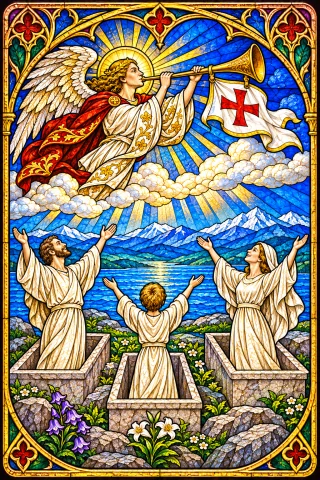
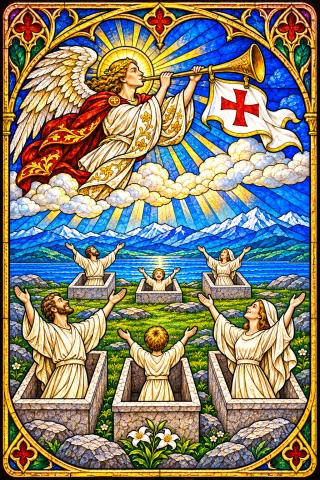
art: adopt consistent six-figure Judgement v3 with QA evidence

diff --git a/docs/audits/two-candidate-adoption-20261113.md b/docs/audits/two-candidate-adoption-20261113.md
@@ -27,3 +27,9 @@ Next edit should preserve the old border/text-free visual system, add a clearly 
 ### Subsequent Mac verification
 
 The exact QA commit was transferred through Library in a SHA-256 verified Git bundle into the clean isolated Mac checkout. `npm run check` passed again. Google Chrome then passed the existing full offline regression and a new targeted installed-image check at 320/390px: search by the app's canonical name `宝剑王牌`, open the card dialog, verify decoded image and `swords-1` current source, no page horizontal overflow. Actual 320/390 screenshots were viewed: complete card border and six separate gold marks remain visible. Initial test used the informal `宝剑一` name and correctly returned zero results; the test was corrected to the existing canonical name, not a product behavior change. No live model requests were made. Safari was not rerun for this image-only adoption; real-device/Firefox coverage is not claimed. QA branch only; no release or main update.
+
+## Later Judgement v3 adoption
+
[1 lines of base64/hex data omitted]
+
+v3 validation: 59 offline tests, TypeScript/build and complete notices for 6 rendered packages passed. All 78 PNG/234 WebP hashes verified. Full isolated Chrome regression passed, now searching/opening both adopted cards and checking decoded installed images at 320/390px with no horizontal overflow. Actual Judgement 320/390 screenshots viewed: full border, six figures/coffins and flag/trumpet readable. Tiny rear faces are necessarily less detailed at narrow size. No external/model requests. Safari/Firefox/real-device reruns not claimed. Temporary test browser/server closed by regression cleanup.

diff --git a/candidates/art-20261113/judgement-v3/README.md b/candidates/art-20261113/judgement-v3/README.md
@@ -1,0 +1,9 @@
+# Judgement v3 — adopted on QA, 2026-11-13
+
[1 lines of base64/hex data omitted]
+
+Actual full PNG and 320px derivative inspected against v1/v2. This edit restores the original text-free border and original angel/trumpet composition, unlike v2's title panels. Front and rear groups each contain two adults and one child, with six individual coffins. White flag/red cross, clouds, mountains and water remain clear. No new lettering, duplicated limb or major anatomy defect was observed; tiny rear hands are stylized and this is not an exhaustive anatomical-perfectness guarantee. Front child faces away; rear child faces forward. Both smaller groups remain distinguishable at 320px. This is a Gothic stained-glass adaptation, not a historical facsimile (clothed figures and land setting are retained creative choices).
+
[1 lines of base64/hex data omitted]
+
+Runtime `public/art/major-20.png`, 320/640/1024 WebP, art review and derivative hashes updated. Existing rights qualifications still apply. No main update or release is authorized by this QA adoption.

diff --git a/candidates/art-20261113/README.md b/candidates/art-20261113/README.md
@@ -57,3 +57,7 @@ A later fresh generation produced a real saved PNG and was transferred through L
 ## QA adoption decision (later 2026-11-13)
 
 Ace of Swords v2 is now installed on the QA branch, with v1 backed up in `ace-of-swords-v1-backup/`. Judgement v2 is not installed: title-panel consistency and rear-child clarity remain unresolved. Earlier non-installation statements above are historical. See `docs/audits/two-candidate-adoption-20261113.md`.
+
+## Judgement v3 adopted on QA
+
+Later v3 corrects both v2 problems: no added title panels, and clearly childlike rear center figure. It is now installed in the QA runtime with v1 preserved byte-for-byte and v2 retained as historical candidate. See `judgement-v3/README.md`. This supersedes the earlier statement that runtime still uses the three-person v1, not the v2 rejection decision.
